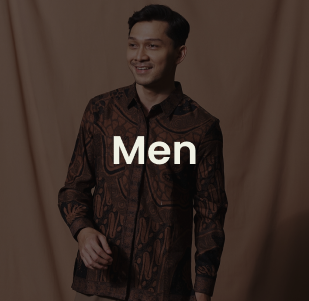
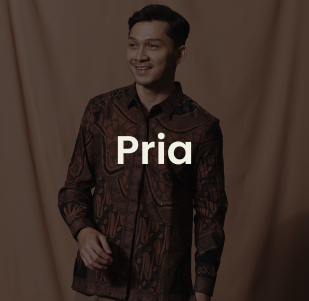
fix

Changed region(s): [[0.3495, 0.4186, 0.6408, 0.5681]]

diff --git a/app/Http/Controllers/shipping_service/OrderController.php b/app/Http/Controllers/shipping_service/OrderController.php
@@ -49,14 +49,32 @@ $orders2 = Transaction::with('transactionDetail')
 
     switch ($sortBy) {
         case '1':
-            $orders = Transaction::where('created_at', '>=', now()->startOfWeek())->orderBy('transactionID')->get();
+            $order1 = Transaction::where('statusID', 2)->where('created_at', '>=', now()->startOfWeek())->orderBy('transactionID')->get();
+            $order2 = Transaction::where('statusID', 3)->where('created_at', '>=', now()->startOfWeek())->orderBy('transactionID')->get();
+            $order3 = Transaction::where('statusID', 4)->where('created_at', '>=', now()->startOfWeek())->orderBy('transactionID')->get();
+            $order4 = Transaction::where('statusID', 5)->where('created_at', '>=', now()->startOfWeek())->orderBy('transactionID')->get();
+            $order5 = Transaction::where('statusID', 7)->where('created_at', '>=', now()->startOfWeek())->orderBy('transactionID')->get();
+            $orders = $order1->merge($order2)->merge($order3)->merge($order4)->merge($order5);
             break;
+
         case '2':
-            $orders = Transaction::where('created_at', '>=', now()->startOfMonth())->orderBy('transactionID')->get();
+            $order1 = Transaction::where('statusID', 2)->where('created_at', '>=', now()->startOfMonth())->orderBy('transactionID')->get();
+            $order2 = Transaction::where('statusID', 3)->where('created_at', '>=', now()->startOfMonth())->orderBy('transactionID')->get();
+            $order3 = Transaction::where('statusID', 4)->where('created_at', '>=', now()->startOfMonth())->orderBy('transactionID')->get();
+            $order4 = Transaction::where('statusID', 5)->where('created_at', '>=', now()->startOfMonth())->orderBy('transactionID')->get();
+            $order5 = Transaction::where('statusID', 7)->where('created_at', '>=', now()->startOfMonth())->orderBy('transactionID')->get();
+            $orders = $order1->merge($order2)->merge($order3)->merge($order4)->merge($order5);
             break;
+
         case '3':
-            $orders = Transaction::where('created_at', '>=', now()->startOfYear())->orderBy('transactionID')->get();
+            $order1 = Transaction::where('statusID', 2)->where('created_at', '>=', now()->startOfYear())->orderBy('transactionID')->get();
+            $order2 = Transaction::where('statusID', 3)->where('created_at', '>=', now()->startOfYear())->orderBy('transactionID')->get();
+            $order3 = Transaction::where('statusID', 4)->where('created_at', '>=', now()->startOfYear())->orderBy('transactionID')->get();
+            $order4 = Transaction::where('statusID', 5)->where('created_at', '>=', now()->startOfYear())->orderBy('transactionID')->get();
+            $order5 = Transaction::where('statusID', 7)->where('created_at', '>=', now()->startOfYear())->orderBy('transactionID')->get();
+            $orders = $order1->merge($order2)->merge($order3)->merge($order4)->merge($order5);
             break;
+
         case '4':
             $order1 = Transaction::where('statusID', 2)->orderBy('transactionID')->get();
             $order2 = Transaction::where('statusID', 3)->orderBy('transactionID')->get();
@@ -65,8 +83,14 @@ $orders2 = Transaction::with('transactionDetail')
             $order5 = Transaction::where('statusID', 7)->orderBy('transactionID')->get();
             $orders = $order1->merge($order2)->merge($order3)->merge($order4)->merge($order5);
             break;
+
         default:
-            $orders = Transaction::orderBy('transactionID')->get();
+            $order1 = Transaction::where('statusID', 2)->orderBy('transactionID')->get();
+            $order2 = Transaction::where('statusID', 3)->orderBy('transactionID')->get();
+            $order3 = Transaction::where('statusID', 4)->orderBy('transactionID')->get();
+            $order4 = Transaction::where('statusID', 5)->orderBy('transactionID')->get();
+            $order5 = Transaction::where('statusID', 7)->orderBy('transactionID')->get();
+            $orders = $order1->merge($order2)->merge($order3)->merge($order4)->merge($order5);
             break;
     }
 

diff --git a/resources/views/customer/mixmatch.blade.php b/resources/views/customer/mixmatch.blade.php
@@ -846,34 +846,40 @@
 
                 var i = 1;
                 cardDetail.forEach(function(item) {
+                    // Tentukan panjang maksimum untuk label
+                    let maxLength = 15;
+
+                    // Lakukan pemotongan string untuk label item
+                    let truncatedStr = item.label.length > maxLength ? item.label.substring(0, maxLength) + "..." :
+                        item.label;
+
                     if (item.wishlist) {
-                        let str = item.label;
-                        let maxLength = 20;
-                        let truncatedStr = str.length>maxLength ? str.substring(0, maxLength) + "..." : str;
                         content +=
                             "<div class=\"catalog-item\"><a href=\"/produk/" + item.id +
                             "\"> <div class=\"card-custom\"><img src=\"" +
                             item.imageUrl +
                             "\" class=\"card-custom-top\" alt=\"Catalog\"><div class=\"card-custom-body\"><p>" +
-                            str + "</p><h3>" + rupiah(item.price) +
+                            truncatedStr + "</p><h3>" + rupiah(item.price) +
                             "</h3></div></div></a></div>";
                     } else {
-                        let str = item.label;
-                        let maxLength = 20;
-                        let truncatedStr = str.length>maxLength ? str.substring(0, maxLength) + "..." : str;
                         content +=
-                            "<div class=\"catalog-item\"><a href=\"/produk/{" + item.id +
-                            "}\"> <div class=\"card-custom\"><img src=\"" +
+                            "<div class=\"catalog-item\"><a href=\"/produk/" + item.id +
+                            "\"> <div class=\"card-custom\"><img src=\"" +
                             item.imageUrl +
                             "\" class=\"card-custom-top\" alt=\"Catalog\"><div class=\"card-custom-body\"><p>" +
-                            str + "</p><h3>" + rupiah(item.price) +
-                            "</h3></div></div></a> </div>";
+                            truncatedStr + "</p><h3>" + rupiah(item.price) +
+                            "</h3></div></div></a></div>";
                     }
-                    // concat
-                    productID = '#produk' + i;
+
+                    // Konkat ID produk dan tambahkan ke elemen yang sesuai
+                    let productID = '#produk' + i;
                     $(productID).val(item.id);
                     i++;
                 });
+
+                i = 1;
+                document.getElementById("content-catalog").innerHTML = content;
+
                 i = 1;
 
                 document.getElementById("content-catalog").innerHTML = content;

diff --git a/resources/views/shipping_service/orderstatus.blade.php b/resources/views/shipping_service/orderstatus.blade.php
@@ -37,7 +37,7 @@
     <div class="container d-flex justify-content-between mt-5 mb-5">
         <div class="d-flex box-1 justify-content-between align-items-center">
             <div class="box-left">
-                <p id="need">Need to be picked up</p>
+                <p id="need">Perlu diambil</p>
                 <p class="count">{{ $countOrders2updated }}</p>
             </div>
             <div class="box-right">
@@ -47,7 +47,7 @@
 
         <div class="d-flex box-2 justify-content-between align-items-center">
             <div class="box-left">
-                <p>On Delivery</p>
+                <p>Dalam Pengiriman</p>
                 <p class="count">{{ $order3Count }}</p>
             </div>
             <div class="box-right">
@@ -57,7 +57,7 @@
 
         <div class="d-flex box-3 justify-content-between align-items-center">
             <div class="box-left">
-                <p>Total Order</p>
+                <p>Total Pesanan</p>
                 <p class="count" id="total-order">{{ $orders->count() }}</p>
                 <form action="{{ route('orderstatus') }}" method="GET">
                     <select name="sortBy" id="sortBy" onchange="this.form.submit()">
@@ -76,16 +76,6 @@
 
     <div class="main-content">
         <div class="inner-container">
-            {{-- <div class="ps-header">
-                <div class="padding-search-custom">
-                    <form class="form-inline my-2 my-lg-0">
-                        <div class="ps-search-custom-container"><img src="/assets/search-white.svg" alt="search"
-                                width="15" height="15"><input class="ps-search-custom" type="text"
-                                placeholder="Kamu bisa cari berdasarkan Nomor Pesanan/Nama Produk" action="/shipping-service">
-                        </div>
-                    </form>
-                </div>
-            </div> --}}
             <div class="ps-content">
                 <div class="ps-status-menu">
                     <ul class="status-menu">

diff --git a/resources/views/admin/orderstatus.blade.php b/resources/views/admin/orderstatus.blade.php
@@ -16,7 +16,7 @@
     <div class="main-content">
         <div class="page-title">
             <div class="title">
-                <h1>Order</h1>
+                <h1>Pesanan</h1>
             </div>
         </div>
         <div class="main-content">
